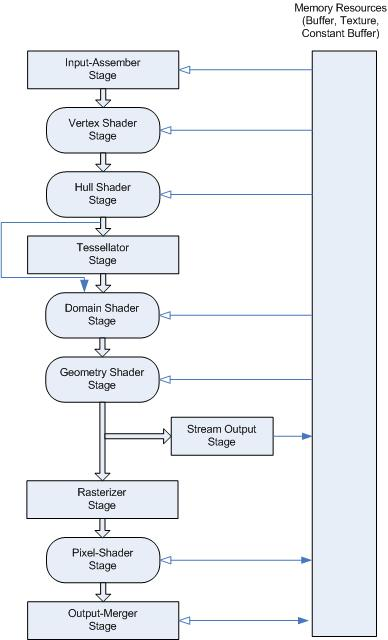
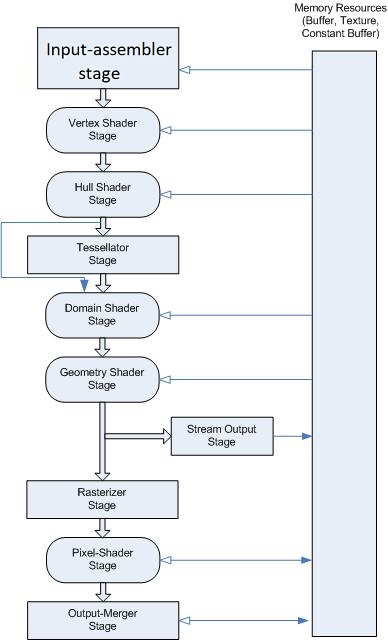
fixing typo in image (#1242)

Changed region(s): [[0.0619, 0.0312, 0.4639, 0.1562]]

diff --git a/desktop-src/direct3d11/overviews-direct3d-11-graphics-pipeline.md b/desktop-src/direct3d11/overviews-direct3d-11-graphics-pipeline.md
@@ -1,12 +1,12 @@
 ---
-title: Graphics Pipeline
+title: Graphics pipeline
 description: This section describes the Direct3D 11 programmable pipeline.
 ms.assetid: 8e7a6f64-0a2b-4ea5-a6a6-7bfb87e27dcc
 ms.topic: article
 ms.date: 05/31/2018
 ---
 
-# Graphics Pipeline
+# Graphics pipeline
 
 The Direct3D 11 programmable pipeline is designed for generating graphics for realtime gaming applications. This section describes the Direct3D 11 programmable pipeline. The following diagram shows the data flow from input to output through each of the programmable stages.
 
